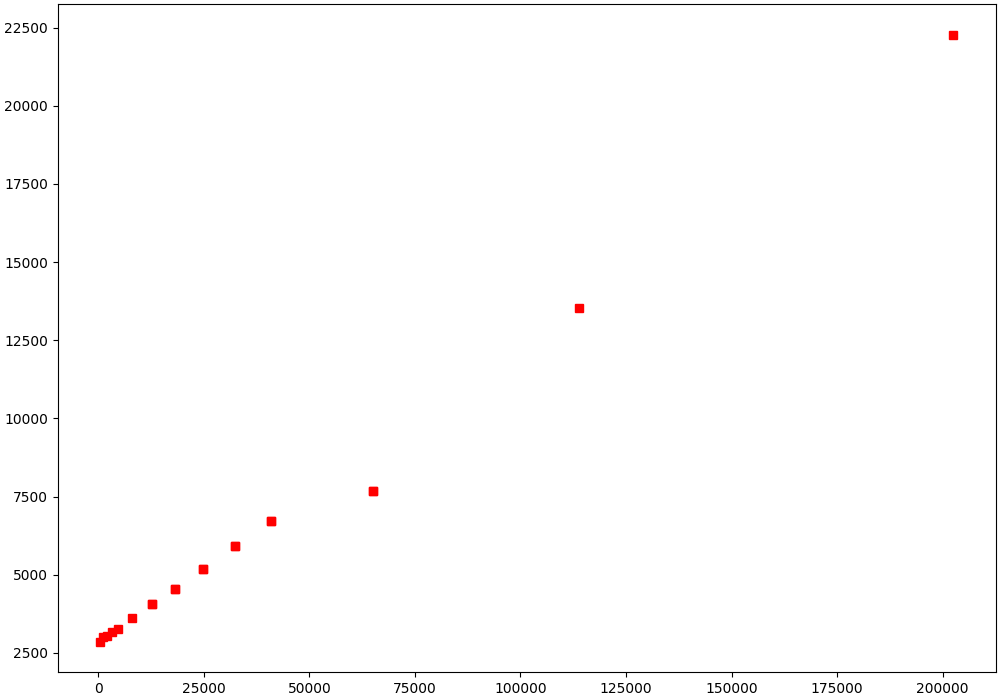
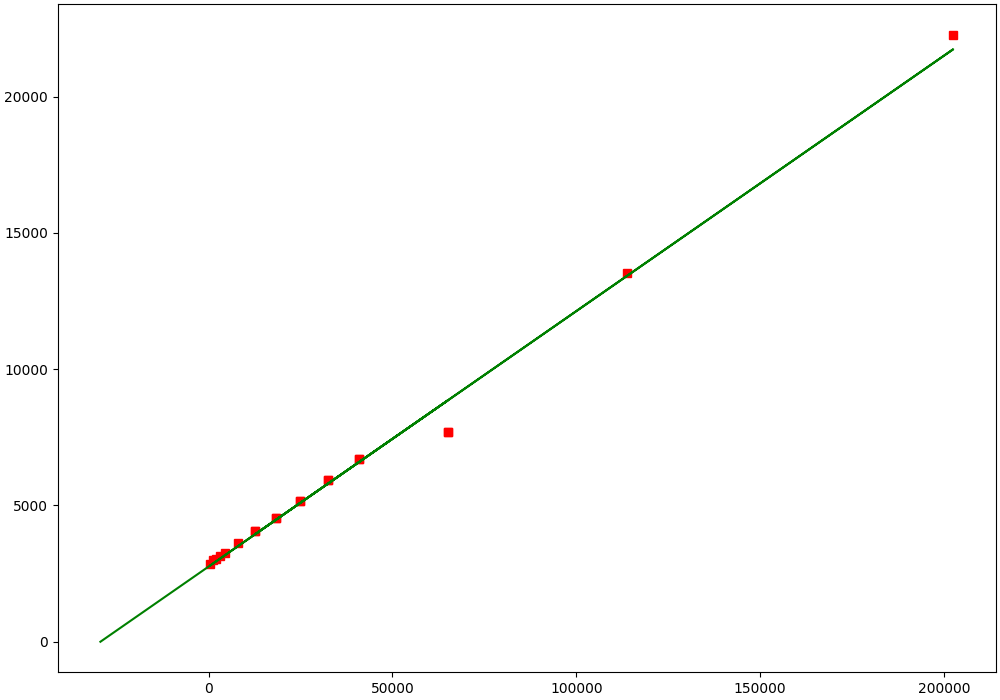
3.7.1

diff --git a/3.7.1/2.py b/3.7.1/2.py
@@ -1,10 +1,11 @@
+from cmath import tan
 import matplotlib.pyplot as plt
 import numpy as np
 from scipy.optimize import curve_fit 
 import math
 
-def mapping(x, a, b): 
-    return a * x + b 
+def mapping(x, a): 
+    return a * x
 
 v0 = 2251.6
 
@@ -17,11 +18,11 @@ v1 = list()
 fi = list()
 pi = list()
 
-with  open('data_3', 'r')  as  data:
-    for line in data:
-        list_line = list((map(float, line.split())))
-        v.append(list_line[0])
-        e.append(list_line[1])
+#with  open('data_3', 'r')  as  data:
+#    for line in data:
+#        list_line = list((map(float, line.split())))
+#        v.append(list_line[0])
+#        e.append(list_line[1])
 
 with  open('data_4', 'r')  as  data:
     for line in data:
@@ -36,35 +37,37 @@ with  open('data_4', 'r')  as  data:
 x1 = list()
 y1 = list()
 
-for i in range(len(e)):
-    if v[i] >= v0 * 0.2:
-        break
-    x1.append(v[i] ** 2)
-    y1.append(1 / (e[i] ** 2))
+for i in range(len(v1)):
+    x1.append(math.sqrt(v1[i]))
+    y1.append((3.14 * fi[i] / pi[i] - 3.14 / 2) - 3.14/4)
 
 y = np.array(y1)
 x = np.array(x1)
 
-x_aproc = x
-y_aproc = y
+x_aproc = list()
+y_aproc = list()
+
+for i in range(17, 24):
+    x_aproc.append(x[i])
+    y_aproc.append(y[i])
+
+x_aproc.append(0)
+y_aproc.append(0)
+
+x_aproc = np.array(x_aproc)
+y_aproc = np.array(y_aproc)
 
 args, covarian = curve_fit(mapping, x_aproc, y_aproc)
-a, b = args[0], args[1]
-y_fit = a * x_aproc + b
-
-
-sum = 0
-length = len(x_aproc)
-for i in range(len(x_aproc)):
-    sum += (y_fit[i] - y_aproc[i]) ** 2
-error_rate = math.sqrt(sum / (length + 1))
-print(error_rate)
+a = args[0]
+y_fit = a * x_aproc
 
 x_sr = 0
 y_sr = 0
 
 x_dr = 0
 y_dr = 0
+
+length = len(x_aproc)
 
 for i in range(length):
     x_sr += x_aproc[i]
@@ -82,27 +85,14 @@ for i in range(length):
     y_dr += (y_aproc[i] - y_sr) ** 2
 y_dr /= length
 
-error_rate_a = math.sqrt(((y_dr / x_dr) - a ** 2) / (length - 2))
+
+error_rate_a = math.sqrt((1.05 * (y_dr / x_dr) - a**2) / (length -  3))
 
 print(error_rate_a)
 
-x_sr_2 = 0
-for i in range(length):
-    x_sr_2 += x_aproc[i] ** 2
-x_sr_2 /= length
-
-error_rate_b = error_rate_a * math.sqrt(x_sr_2)
-print(error_rate_b) 
 
 print(error_rate_a / a)
-print(error_rate_b / b)
 
-y_fit = np.append(y_fit, 0)
-x_aproc = np.append(x_aproc, -b/a)
-
-print(-b/a)
-
-print(b)
 print(a)
 
 
@@ -112,4 +102,4 @@ fig, ax = plt.subplots(figsize=(10,7), constrained_layout=True)
 plt.plot(x, y, 'rs')
 plt.plot(x_aproc, y_fit, 'g')
 
-plt.savefig("1.png")
+plt.savefig("2.png")

diff --git a/3.7.1/5.py b/3.7.1/5.py
@@ -1,0 +1,69 @@
+import matplotlib.pyplot as plt
+import numpy as np
+from scipy.optimize import curve_fit 
+import math
+
+def mapping(x, a, b): 
+    return a * x + b 
+
+v0 = 2251.6
+e0 = 0.0191
+
+e = list()
+v = list()
+
+e1 = list()
+v1 = list()
+
+fi = list()
+pi = list()
+
+with  open('data_3', 'r')  as  data:
+    for line in data:
+        list_line = list((map(float, line.split())))
+        v.append(list_line[0])
+        e.append(list_line[1])
+
+with  open('data_4', 'r')  as  data:
+    for line in data:
+        list_line = list((map(float, line.split())))
+        v.append(list_line[0])
+        e.append(list_line[1])
+        v1.append(list_line[0])
+        e1.append(list_line[1])
+        fi.append(list_line[2])
+        pi.append(list_line[3])
+v1 = list()
+for i in range(len(v)):
+    v1.append(math.log((v[i]/v[0])))
+v1 = np.array(v1)
+
+print(math.log((v0/v[0])))
+
+he = list()
+
+for i in range(len(v)):
+    he.append(e[i]/e0)
+
+he = np.array(he)
+
+v = np.array(v)
+
+ht1 = list()
+ht2 = list()
+
+h = 1.5 * 10 ** -3
+a = 45 * 10 ** -3 /2
+s1 = 5.2 * 10 ** 7
+s2 = 4.64 * 10 ** 7
+u0 = 4 * 3.14 * 10 ** -7
+for i in range(len(v)):
+    ht1.append(1 / (math.sqrt(1 + 1 / 4 * ((a * h * s1 * u0 * v[i] *2 *3.14) ** 2))))
+for i in range(len(v)):
+    ht2.append(1 / (math.sqrt(1 + 1 / 4 * ((a * h * s2 * u0 * v[i] *2 *3.14) ** 2))))
+
+fig, ax = plt.subplots(figsize=(10,7), constrained_layout=True)
+plt.plot(v1, he, 'rs')
+plt.plot(v1, ht1, 'gs')
+plt.plot(v1, ht2, 'bs')
+plt.savefig("5.png")

diff --git a/3.7.1/6.py b/3.7.1/6.py
@@ -1,0 +1,48 @@
+from cmath import tan
+import matplotlib.pyplot as plt
+import numpy as np
+from scipy.optimize import curve_fit 
+import math
+
+def mapping(x, a): 
+    return a * x
+
+v0 = 2251.6
+
+e = list()
+v = list()
+
+e1 = list()
+v1 = list()
+
+fi = list()
+pi = list()
+
+#with  open('data_3', 'r')  as  data:
+#    for line in data:
+#        list_line = list((map(float, line.split())))
+#        v.append(list_line[0])
+#        e.append(list_line[1])
+
+with  open('data_4', 'r')  as  data:
+    for line in data:
+        list_line = list((map(float, line.split())))
+        v.append(list_line[0])
+        e.append(list_line[1])
+        v1.append(list_line[0])
+        e1.append(list_line[1])
+        fi.append(list_line[2])
+        pi.append(list_line[3])
+
+x1 = list()
+y1 = list()
+
+for i in range(11):
+    x1.append(math.sqrt(v1[i]))
+    y1.append(math.tan(3.14 * fi[i] / pi[i] - 3.14 / 2))
+
+fig, ax = plt.subplots(figsize=(10,7), constrained_layout=True)
+
+plt.plot(x1, y1, 'rs')
+
+plt.savefig("6.png")

diff --git a/3.7.1/4.py b/3.7.1/4.py
@@ -1,0 +1,49 @@
+import matplotlib.pyplot as plt
+import numpy as np
+from scipy.optimize import curve_fit 
+import math
+
+def mapping(x, a): 
+    return a * x
+
+l = list()
+v = list()
+
+with  open('data_6', 'r')  as  data:
+    for line in data:
+        list_line = list((map(float, line.split())))
+        v.append(list_line[0])
+        l.append(list_line[1])
+
+x = np.array(v)
+y = np.array(l)
+
+x1 = list()
+y1 = list()
+
+for i in range(len(l) -2):
+    if(y[i] - y[len(l) - 1] != 0):
+        x1.append(x[i] ** 2)
+        y1.append((y[0] - y[len(l) - 1]) / (y[i] - y[len(l) - 1]))
+
+x1.append(0)
+y1.append(0)
+
+x1 = np.array(x1)
+y1 = np.array(y1)
+
+x_aproc = np.array(x1)
+y_aproc = np.array(y1)
+
+args, covarian = curve_fit(mapping, x_aproc, y_aproc)
+a = args[0]
+y_fit = a * x_aproc
+
+print(a)
+
+fig, ax = plt.subplots(figsize=(10,7), constrained_layout=True)
+
+plt.plot(x1, y1, 'rs')
+plt.plot(x_aproc, y_fit, 'g')
+
+plt.savefig("4.png")

diff --git a/3.7.1/3.py b/3.7.1/3.py
@@ -1,0 +1,22 @@
+import matplotlib.pyplot as plt
+import numpy as np
+from scipy.optimize import curve_fit 
+import math
+
+l = list()
+v = list()
+
+with  open('data_6', 'r')  as  data:
+    for line in data:
+        list_line = list((map(float, line.split())))
+        v.append(list_line[0])
+        l.append(list_line[1])
+
+x = np.array(v)
+y = np.array(l)
+
+fig, ax = plt.subplots(figsize=(10,7), constrained_layout=True)
+
+plt.plot(x, y, 'rs')
+
+plt.savefig("3.png")
